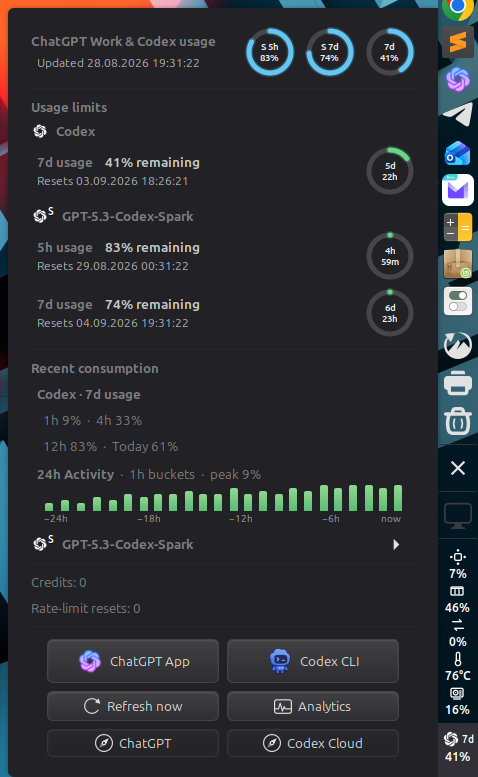
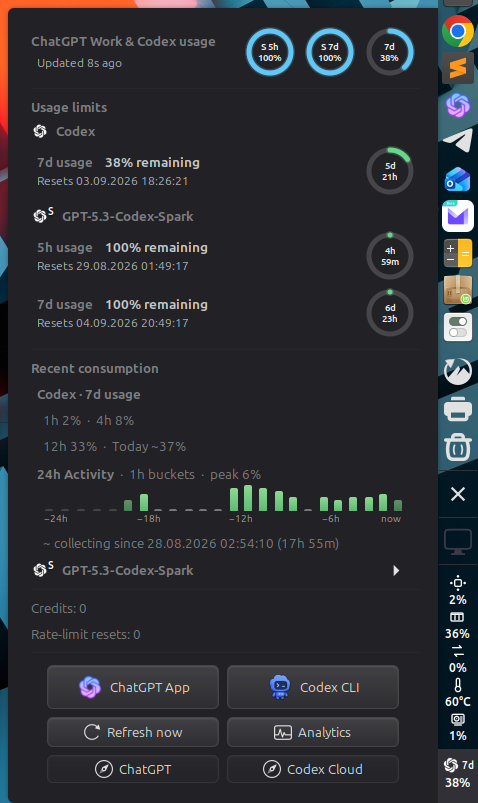
Show relative update age for v0.2.3 (#8)

diff --git a/applet.js b/applet.js
@@ -66,6 +66,7 @@ class ChatGptUsageApplet extends Applet.Applet {
         this._refreshButtonIcon = null;
         this._refreshButtonLabel = null;
         this._refreshSpinnerLabel = null;
+        this._updatedLabel = null;
         this._refreshSpinnerFrame = 0;
         this._historySubmenus = [];
         this._actionFrame = null;
@@ -417,6 +418,7 @@ class ChatGptUsageApplet extends Applet.Applet {
         this._refreshButtonIcon = null;
         this._refreshButtonLabel = null;
         this._refreshSpinnerLabel = null;
+        this._updatedLabel = null;
         this._historySubmenus = [];
         this._actionFrame = null;
         this._actionWidthFrame = null;
@@ -492,18 +494,16 @@ class ChatGptUsageApplet extends Applet.Applet {
         title.style = "font-weight: bold;";
         text.add_child(title);
         if (this._snapshot) {
-            const updated = UsageFormat.formatTimestamp(
-                this._snapshot.updatedAt,
-                this._use24HourClock
-            );
-            const updatedLabel = new St.Label({ text: `Updated ${updated}` });
-            updatedLabel.style = [
+            this._updatedLabel = new St.Label({
+                text: `Updated ${UsageFormat.formatRelativeTime(this._snapshot.updatedAt)}`
+            });
+            this._updatedLabel.style = [
                 "padding-top: 6px",
                 "padding-left: 6px",
                 "font-size: 90%",
                 "color: rgba(255,255,255,0.68)"
             ].join("; ") + ";";
-            text.add_child(updatedLabel);
+            text.add_child(this._updatedLabel);
         }
         const row = new St.BoxLayout({
             vertical: false,
@@ -772,6 +772,12 @@ class ChatGptUsageApplet extends Applet.Applet {
         for (const entry of this._countdownWidgets) {
             this._updateResetCountdown(entry);
         }
+    }
+
+    _updateRelativeTime() {
+        if (!this._updatedLabel || !this._snapshot) return;
+        const relativeTime = UsageFormat.formatRelativeTime(this._snapshot.updatedAt);
+        this._updatedLabel.set_text(`Updated ${relativeTime}`);
     }
 
     _addLaunchButtons() {
@@ -1575,7 +1581,10 @@ class ChatGptUsageApplet extends Applet.Applet {
             this._countdownTimeoutId = 0;
         }
         this._countdownTimeoutId = Mainloop.timeout_add_seconds(1, () => {
-            if (this.menu && this.menu.isOpen) this._updateResetCountdowns();
+            if (this.menu && this.menu.isOpen) {
+                this._updateResetCountdowns();
+                this._updateRelativeTime();
+            }
             return GLib.SOURCE_CONTINUE;
         });
     }

diff --git a/usage-format.js b/usage-format.js
@@ -282,6 +282,26 @@ function formatTimestamp(epochSeconds, use24Hour) {
     return dateTime.format(`%x ${timeFormat}`);
 }
 
+function formatRelativeTime(epochSeconds, nowSeconds = null) {
+    const updatedSeconds = Number(epochSeconds);
+    const currentSeconds = nowSeconds === null
+        ? GLib.get_real_time() / 1000000
+        : Number(nowSeconds);
+    if (
+        !Number.isFinite(updatedSeconds) || updatedSeconds <= 0 ||
+        !Number.isFinite(currentSeconds)
+    ) {
+        return "unknown";
+    }
+
+    const elapsedSeconds = Math.floor(Math.max(0, currentSeconds - updatedSeconds));
+    if (elapsedSeconds < 1) return "just now";
+    if (elapsedSeconds < 60) return `${elapsedSeconds}s ago`;
+    if (elapsedSeconds < 3600) return `${Math.floor(elapsedSeconds / 60)}m ago`;
+    if (elapsedSeconds < 86400) return `${Math.floor(elapsedSeconds / 3600)}h ago`;
+    return `${Math.floor(elapsedSeconds / 86400)}d ago`;
+}
+
 module.exports = {
     summarizeWindows,
     listQuotaWindows,
@@ -295,5 +315,6 @@ module.exports = {
     buildActivityChart,
     formatActivityBucketTooltip,
     formatAccessibleTooltip,
-    formatTimestamp
+    formatTimestamp,
+    formatRelativeTime
 };

diff --git a/tests/test-usage-format.js b/tests/test-usage-format.js
@@ -266,5 +266,40 @@ const timestamp24h = UsageFormat.formatTimestamp(1700000000, true);
 if (/AM|PM/.test(timestamp24h) || !/:/.test(timestamp24h)) {
     throw new Error(`Expected system-local 24-hour timestamp, got ${timestamp24h}`);
 }
+assertEqual(
+    UsageFormat.formatRelativeTime(1000, 1000),
+    "just now",
+    "Current relative timestamp"
+);
+assertEqual(
+    UsageFormat.formatRelativeTime(1000, 1008.9),
+    "8s ago",
+    "Second-level relative timestamp"
+);
+assertEqual(
+    UsageFormat.formatRelativeTime(1000, 1120),
+    "2m ago",
+    "Minute-level relative timestamp"
+);
+assertEqual(
+    UsageFormat.formatRelativeTime(1000, 8200),
+    "2h ago",
+    "Hour-level relative timestamp"
+);
+assertEqual(
+    UsageFormat.formatRelativeTime(1000, 173800),
+    "2d ago",
+    "Day-level relative timestamp"
+);
+assertEqual(
+    UsageFormat.formatRelativeTime(1000, 999),
+    "just now",
+    "Future relative timestamp jitter"
+);
+assertEqual(
+    UsageFormat.formatRelativeTime(null, 1000),
+    "unknown",
+    "Invalid relative timestamp"
+);
 
 print("Usage formatting tests passed.");

diff --git a/README.md b/README.md
@@ -74,7 +74,7 @@ cd cinnamon-chatgpt-usage
 Then open **System Settings → Applets** and add **ChatGPT Usage** to a panel.
 Requirements: Cinnamon 5.8+, Python 3 and a current
 [Codex CLI](https://learn.chatgpt.com/docs/codex/cli#getting-started) signed in
-with ChatGPT. Version 0.2.2 is tested on Cinnamon 6.6.9 with Codex CLI 0.150.1.
+with ChatGPT. Version 0.2.3 is tested on Cinnamon 6.6.9 with Codex CLI 0.150.1.
 
 Run `./install.sh` again after updates. `./uninstall.sh` removes the applet while
 retaining its settings.

diff --git a/CHANGELOG.md b/CHANGELOG.md
@@ -1,5 +1,10 @@
 # Changelog
 
+## 0.2.3 — 2026-08-28
+
+- Replace the popup header's full update timestamp with a concise live age,
+  from `Updated just now` through seconds, minutes, hours and days ago.
+
 ## 0.2.2 — 2026-08-28
 
 - Balance the popup's right edge against its left text inset while keeping
